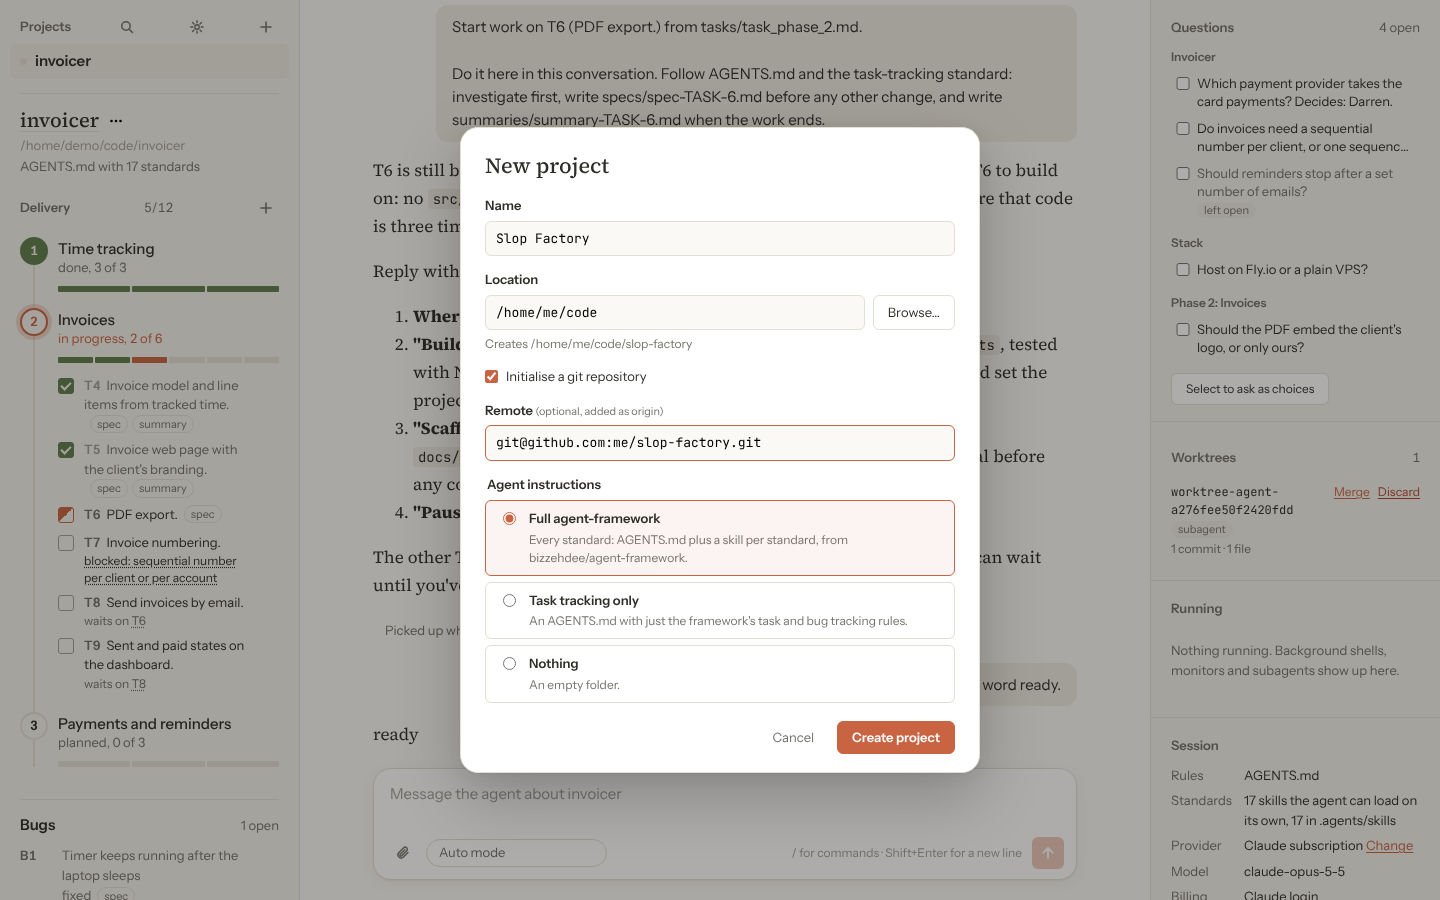
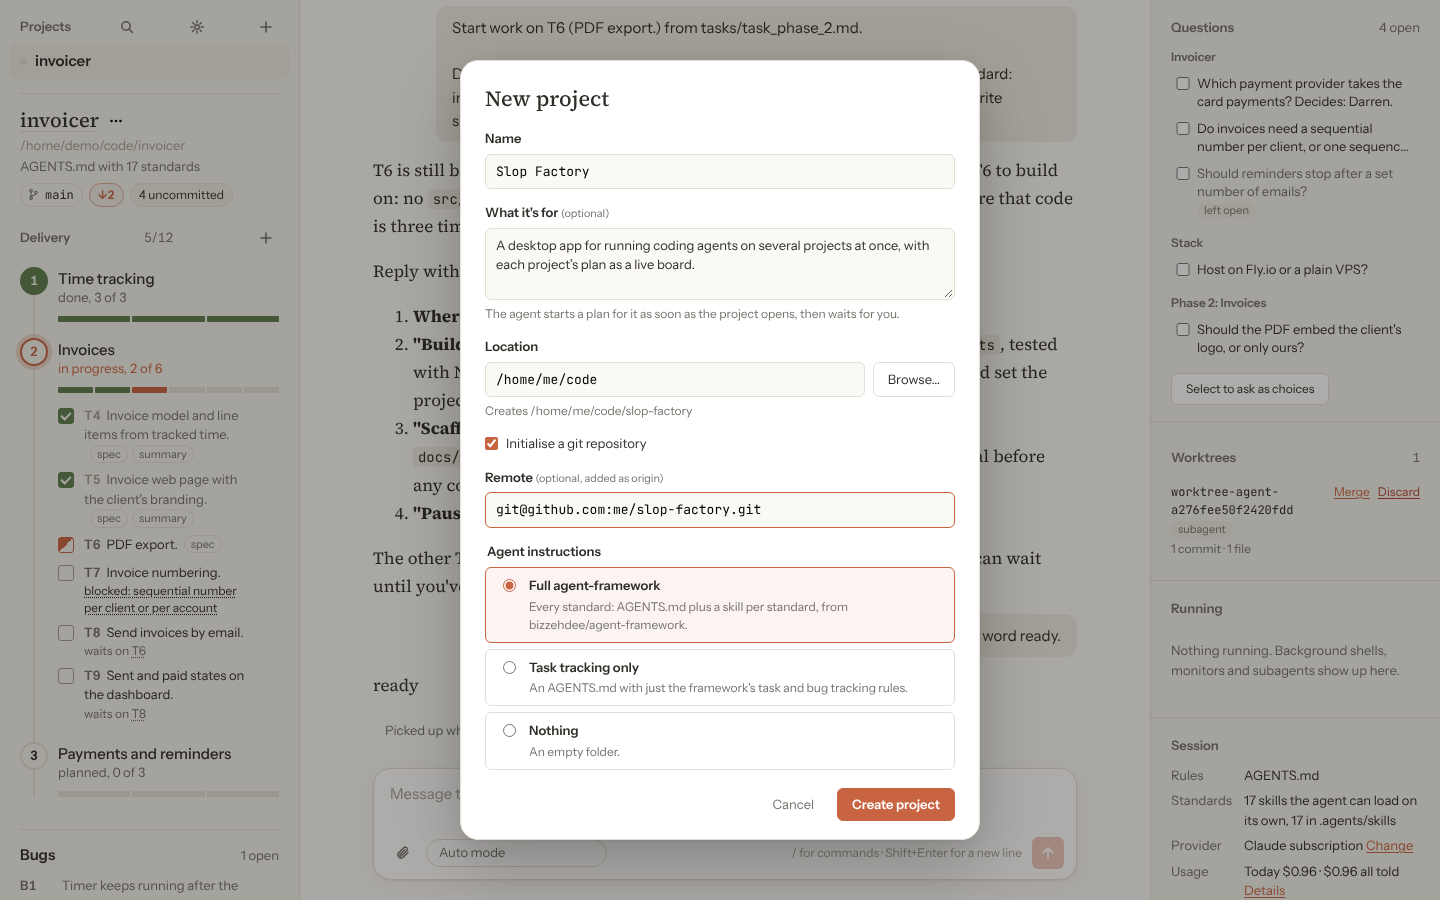
Ask what a new project is for, and start its plan from that
New project has an optional "What it's for" description. When given,
the project's first message, sent as soon as it opens and its agent has
started, is "Start a plan, and await more instructions for: <it>". Left
empty, nothing is sent. The message is fixed rather than a prompt
setting, since a new project's folder starts empty and so has no
.slop-factory.json to change it.

Also: text boxes in dialogs (this one, and a bug's details) are styled
like the other fields, and a field's hint is no longer bold.

Claude-Session: https://claude.ai/code/session_01HTDuyuTrwzEU3M4iYS5dWE

diff --git a/sidecar/src/index.ts b/sidecar/src/index.ts
@@ -10,7 +10,7 @@ import { FakeSession } from './fake-agent.js';
 import { loadHistory } from './history.js';
 import { TaskWatcher, loadTaskConfig } from './tasks.js';
 import { scanFramework } from './framework.js';
-import { DEFAULT_PROMPTS, Priorities, promptFor, workstreamsPrompt, type DeskPrompts } from './actions.js';
+import { DEFAULT_PROMPTS, Priorities, planPrompt, promptFor, workstreamsPrompt, type DeskPrompts } from './actions.js';
 import { ProviderStore, probeModels } from './providers.js';
 import { createProject } from './newproject.js';
 import { installedEditors, openInEditor } from './editors.js';
@@ -134,6 +134,9 @@ function replay(p: Project): void {
   send({ type: 'replayDone' });
 }
 
+// New projects' first messages, sent when each opens: "start a plan for ..." from its description.
+const firstMessages = new Map<string, { description: string; name: string }>();
+
 // Projects part-way through opening. The window hears about a project before it's ready, and its
 // commands for it wait here rather than fail.
 const opening = new Map<string, Promise<void>>();
@@ -199,6 +202,11 @@ async function startProject(dir: string, requested?: PermissionModeName): Promis
   tasks.start();
   session.processes.clear();
   session.start();
+  const first = firstMessages.get(dir);
+  if (first) {
+    firstMessages.delete(dir);
+    session.send(planPrompt(first.description), { kind: 'plan', key: first.name });
+  }
   // The window treats a project as replaying until this arrives, as it does for a reopened one.
   out({ type: 'replayDone' });
 }
@@ -512,6 +520,8 @@ async function handle(cmd: UiCommand): Promise<void> {
     case 'createProject':
       try {
         const dir = await createProject(cmd.request, (line) => emit({ type: 'createProgress', requestId: cmd.requestId, line }));
+        // Its first message goes once it opens and its agent has started.
+        if (cmd.request.description?.trim()) firstMessages.set(path.resolve(dir), { description: cmd.request.description, name: cmd.request.name });
         emit({ type: 'projectCreated', requestId: cmd.requestId, ok: true, dir });
       } catch (err) {
         emit({ type: 'projectCreated', requestId: cmd.requestId, ok: false, error: err instanceof Error ? err.message : String(err) });

diff --git a/sidecar/src/protocol.ts b/sidecar/src/protocol.ts
@@ -37,7 +37,7 @@ export interface ActionItem {
 // in its own git worktree, in parallel with the conversation.
 export type ItemAction = 'start' | 'startSubagent' | 'reinvestigate' | 'summarise';
 // What a message sent on your behalf did: a board action, or starting or finding workstreams.
-export type SentAction = ItemAction | 'runWorkstreams' | 'findWorkstreams' | 'commit';
+export type SentAction = ItemAction | 'runWorkstreams' | 'findWorkstreams' | 'commit' | 'plan';
 
 // The priority queue has two lanes: "main" items start one at a time in the conversation as each
 // turn ends; "subagent" items start one at a time in a background subagent as the previous one ends.
@@ -155,6 +155,7 @@ export interface NewProjectRequest {
   git: boolean;
   remote?: string; // added as origin
   framework: 'full' | 'basic' | 'none'; // basic: an AGENTS.md with only task and bug tracking
+  description?: string; // what it's for: the first message asks the agent to start a plan for it
 }
 
 // ---------- sidecar -> UI ----------

diff --git a/src/ui/questions.ts b/src/ui/questions.ts
@@ -395,7 +395,7 @@ export function updateQuestionActions(p: Proj): void {
   }
 }
 
-export const ACTION_LABEL: Record<SentAction, string> = { start: 'Start now', startSubagent: 'Start in subagent', reinvestigate: 'Reinvestigate', summarise: 'Summarise', runWorkstreams: 'Run workstreams', findWorkstreams: 'Find workstreams', commit: 'Commit changes' };
+export const ACTION_LABEL: Record<SentAction, string> = { start: 'Start now', startSubagent: 'Start in subagent', reinvestigate: 'Reinvestigate', summarise: 'Summarise', runWorkstreams: 'Run workstreams', findWorkstreams: 'Find workstreams', commit: 'Commit changes', plan: 'Start a plan' };
 
 export function userMessage(p: Proj, text: string, action?: { kind: SentAction; key: string }, attachments: string[] = []): void {
   p.transcript.querySelector('.empty')?.remove();

diff --git a/sidecar/src/actions.ts b/sidecar/src/actions.ts
@@ -83,6 +83,14 @@ export const DEFAULT_PROMPTS: Record<string, string> = {
     'any of them.',
 };
 
+/**
+ * A new project's first message: start a plan for what it's for. Fixed, since a new project's
+ * folder starts empty and so has no .slop-factory.json to change it.
+ */
+export function planPrompt(description: string): string {
+  return `Start a plan, and await more instructions for: ${description.trim()}`;
+}
+
 /** The message that starts workstreams: each stream with its tasks (titled) in order. */
 export function workstreamsPrompt(streams: Workstream[], titles: Map<string, string>, file: string, prompts: DeskPrompts): string {
   const list = streams

diff --git a/index.html b/index.html
@@ -359,6 +359,11 @@
           <span>Name</span>
           <input name="name" type="text" required autocomplete="off" />
         </label>
+        <label class="field">
+          <span>What it's for <small>(optional)</small></span>
+          <textarea name="description" rows="3" placeholder="e.g. An invoicing app for freelancers: track time per client, turn it into invoices, and send them"></textarea>
+          <span class="field-hint">The agent starts a plan for it as soon as the project opens, then waits for you.</span>
+        </label>
         <div class="field">
           <label for="np-parent">Location</label>
           <div class="field-row">

diff --git a/src/styles.css b/src/styles.css
@@ -1938,9 +1938,23 @@ textarea {
   font-family: var(--mono);
   font-size: 0.8125rem;
 }
-.field input:focus {
+.field textarea {
+  width: 100%;
+  padding: 7px 10px;
+  border: 1px solid var(--line);
+  border-radius: var(--radius-s);
+  background: var(--bg);
+  font: inherit;
+  line-height: 1.45;
+  resize: vertical;
+}
+.field input:focus,
+.field textarea:focus {
   outline: none;
   border-color: var(--clay);
+}
+.field > span.field-hint {
+  font-weight: 400;
 }
 .field-row {
   display: flex;

diff --git a/src/ui/newproject.ts b/src/ui/newproject.ts
@@ -74,6 +74,7 @@ export function wireNewProjectDialog(): void {
         git,
         remote: git ? value('remote') || undefined : undefined,
         framework: (form.querySelector('input[name=framework]:checked') as HTMLInputElement).value as 'full' | 'basic' | 'none',
+        description: (form.elements.namedItem('description') as HTMLTextAreaElement).value.trim() || undefined,
       },
     });
   });

diff --git a/README.md b/README.md
@@ -193,8 +193,10 @@ Each project remembers its mode.
 
 ## New projects
 
-**+**, then **New project**, asks for a name, where to put it, whether to start a git repository
-(and its remote), and what instructions the agent should follow:
+**+**, then **New project**, asks for a name, what the project is for, where to put it, whether to
+start a git repository (and its remote), and what instructions the agent should follow. With a
+description, the agent's first message asks it to start a plan for the project and then wait for
+you; leave it empty and nothing is sent.
 
 - **Full agent-framework:** every standard from agent-framework, installed with its own installer.
 - **Task tracking only:** an `AGENTS.md` with just agent-framework's task and bug tracking rules.
